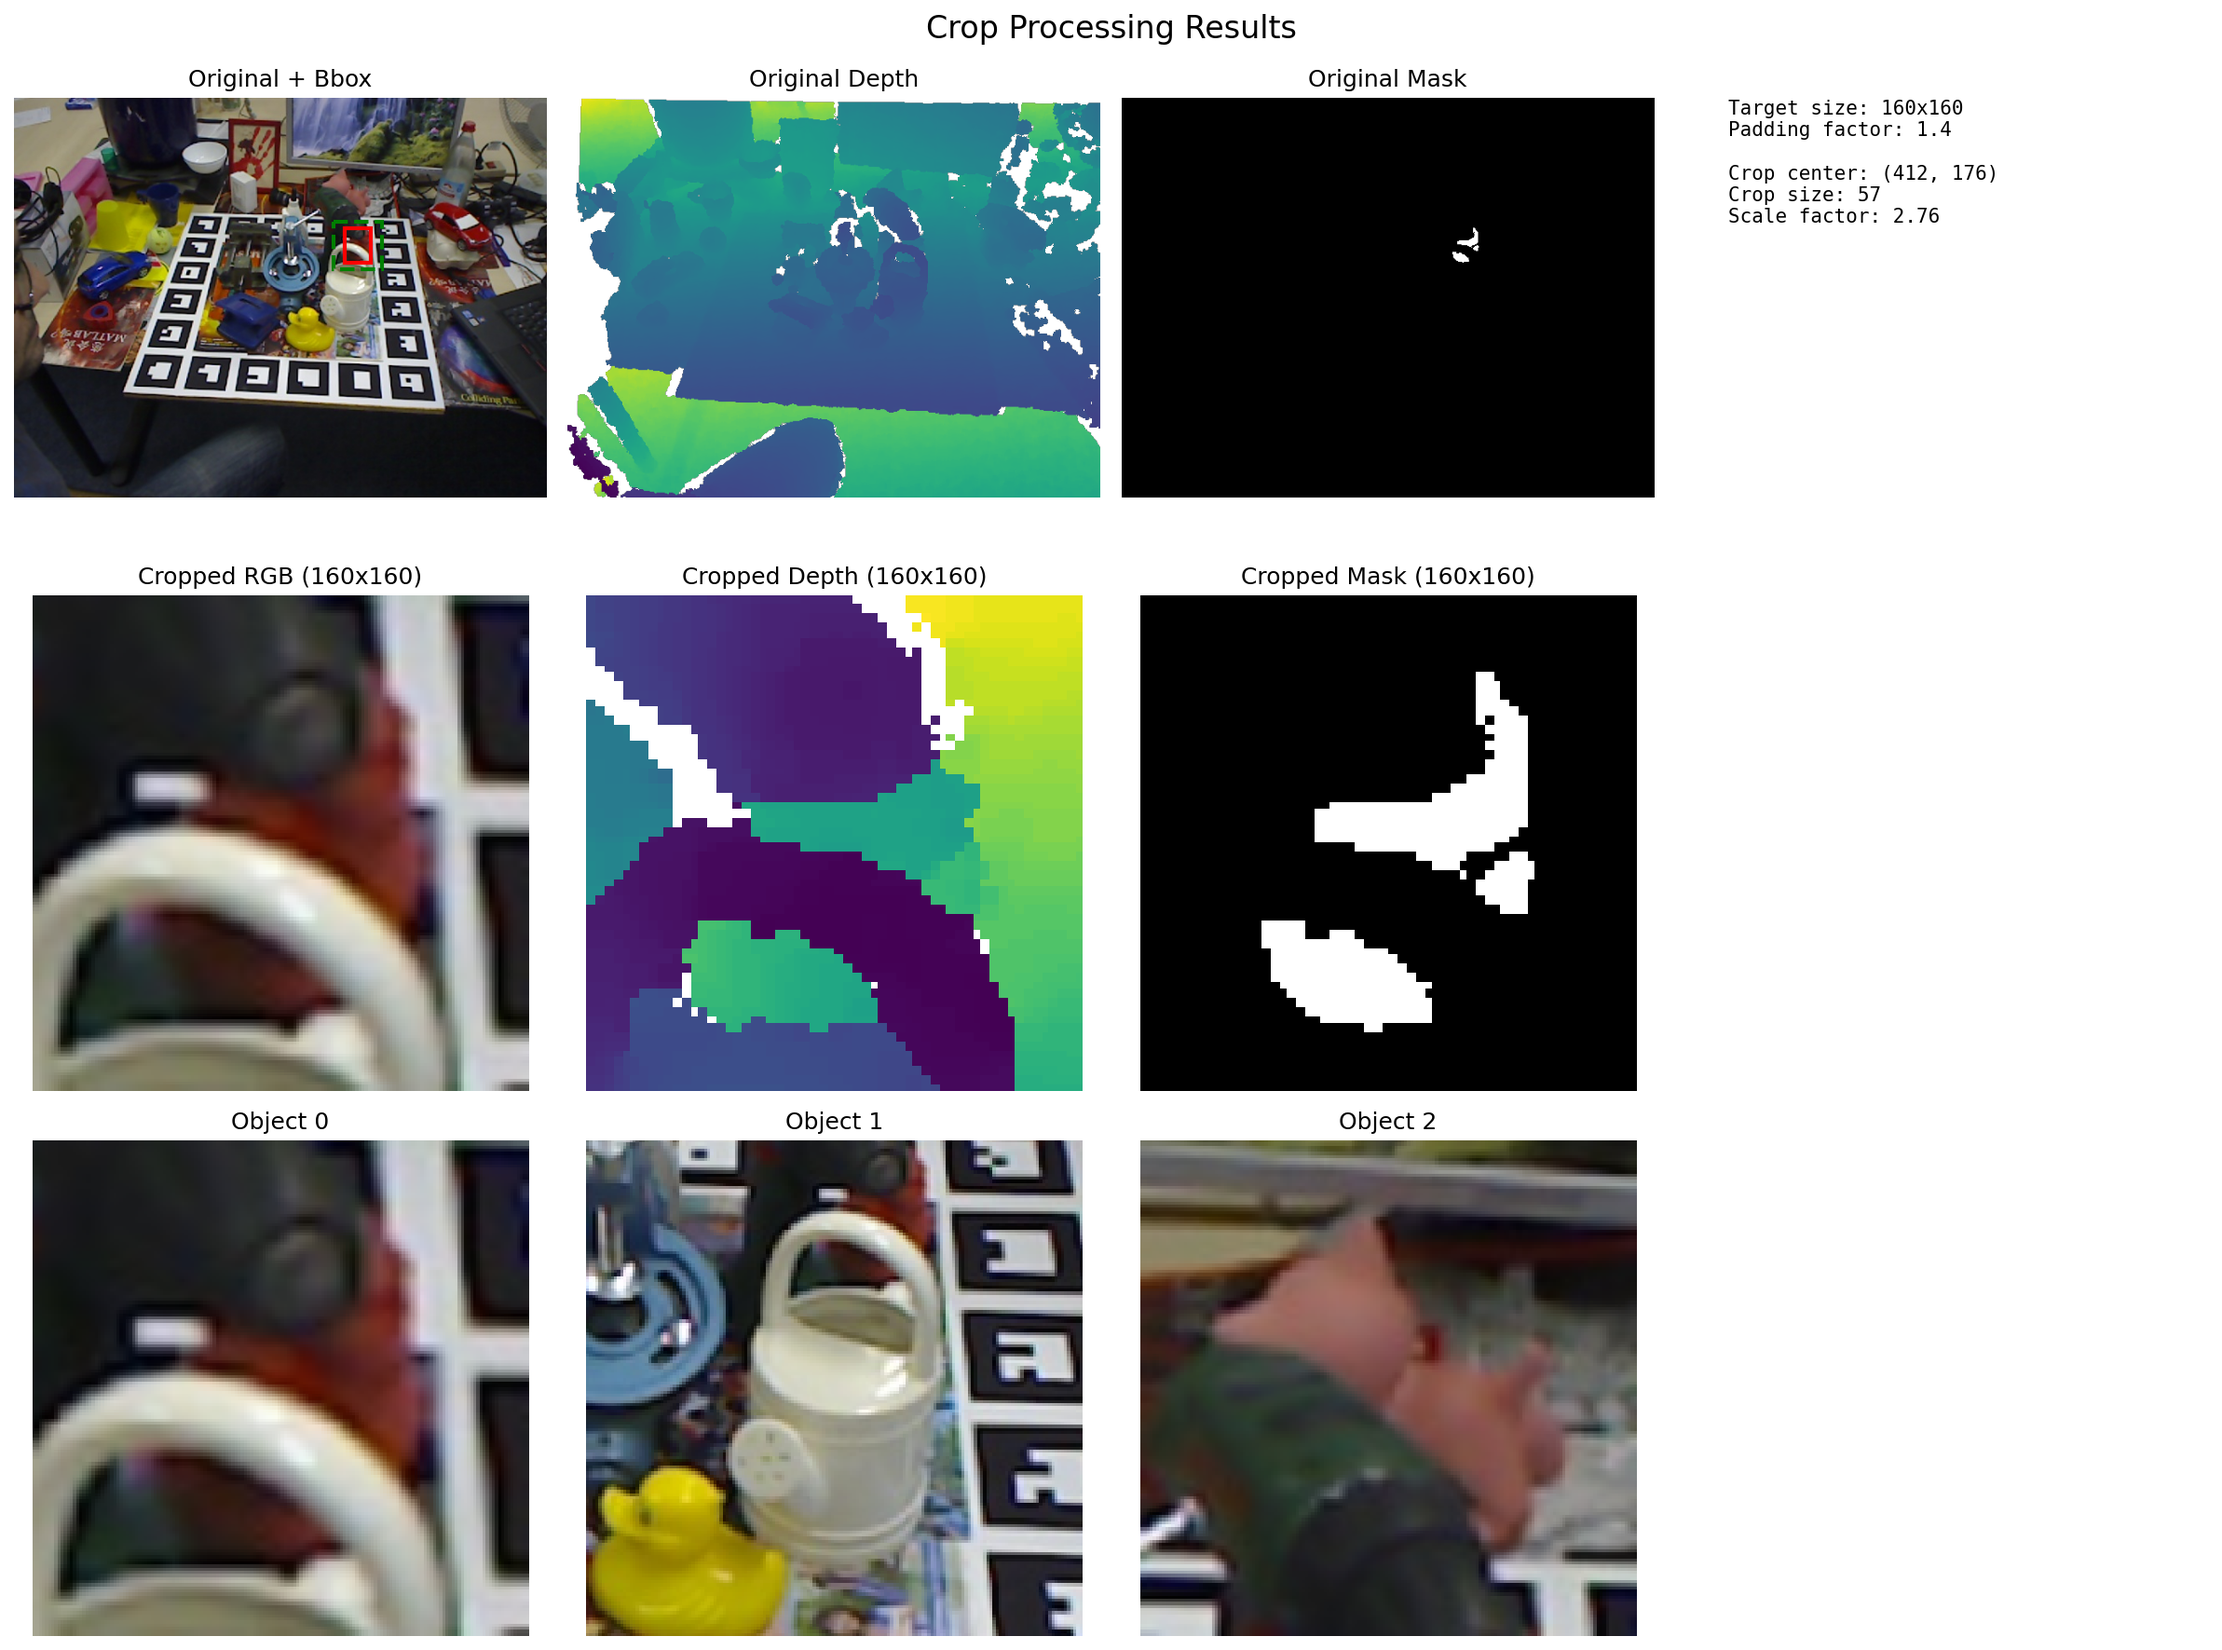
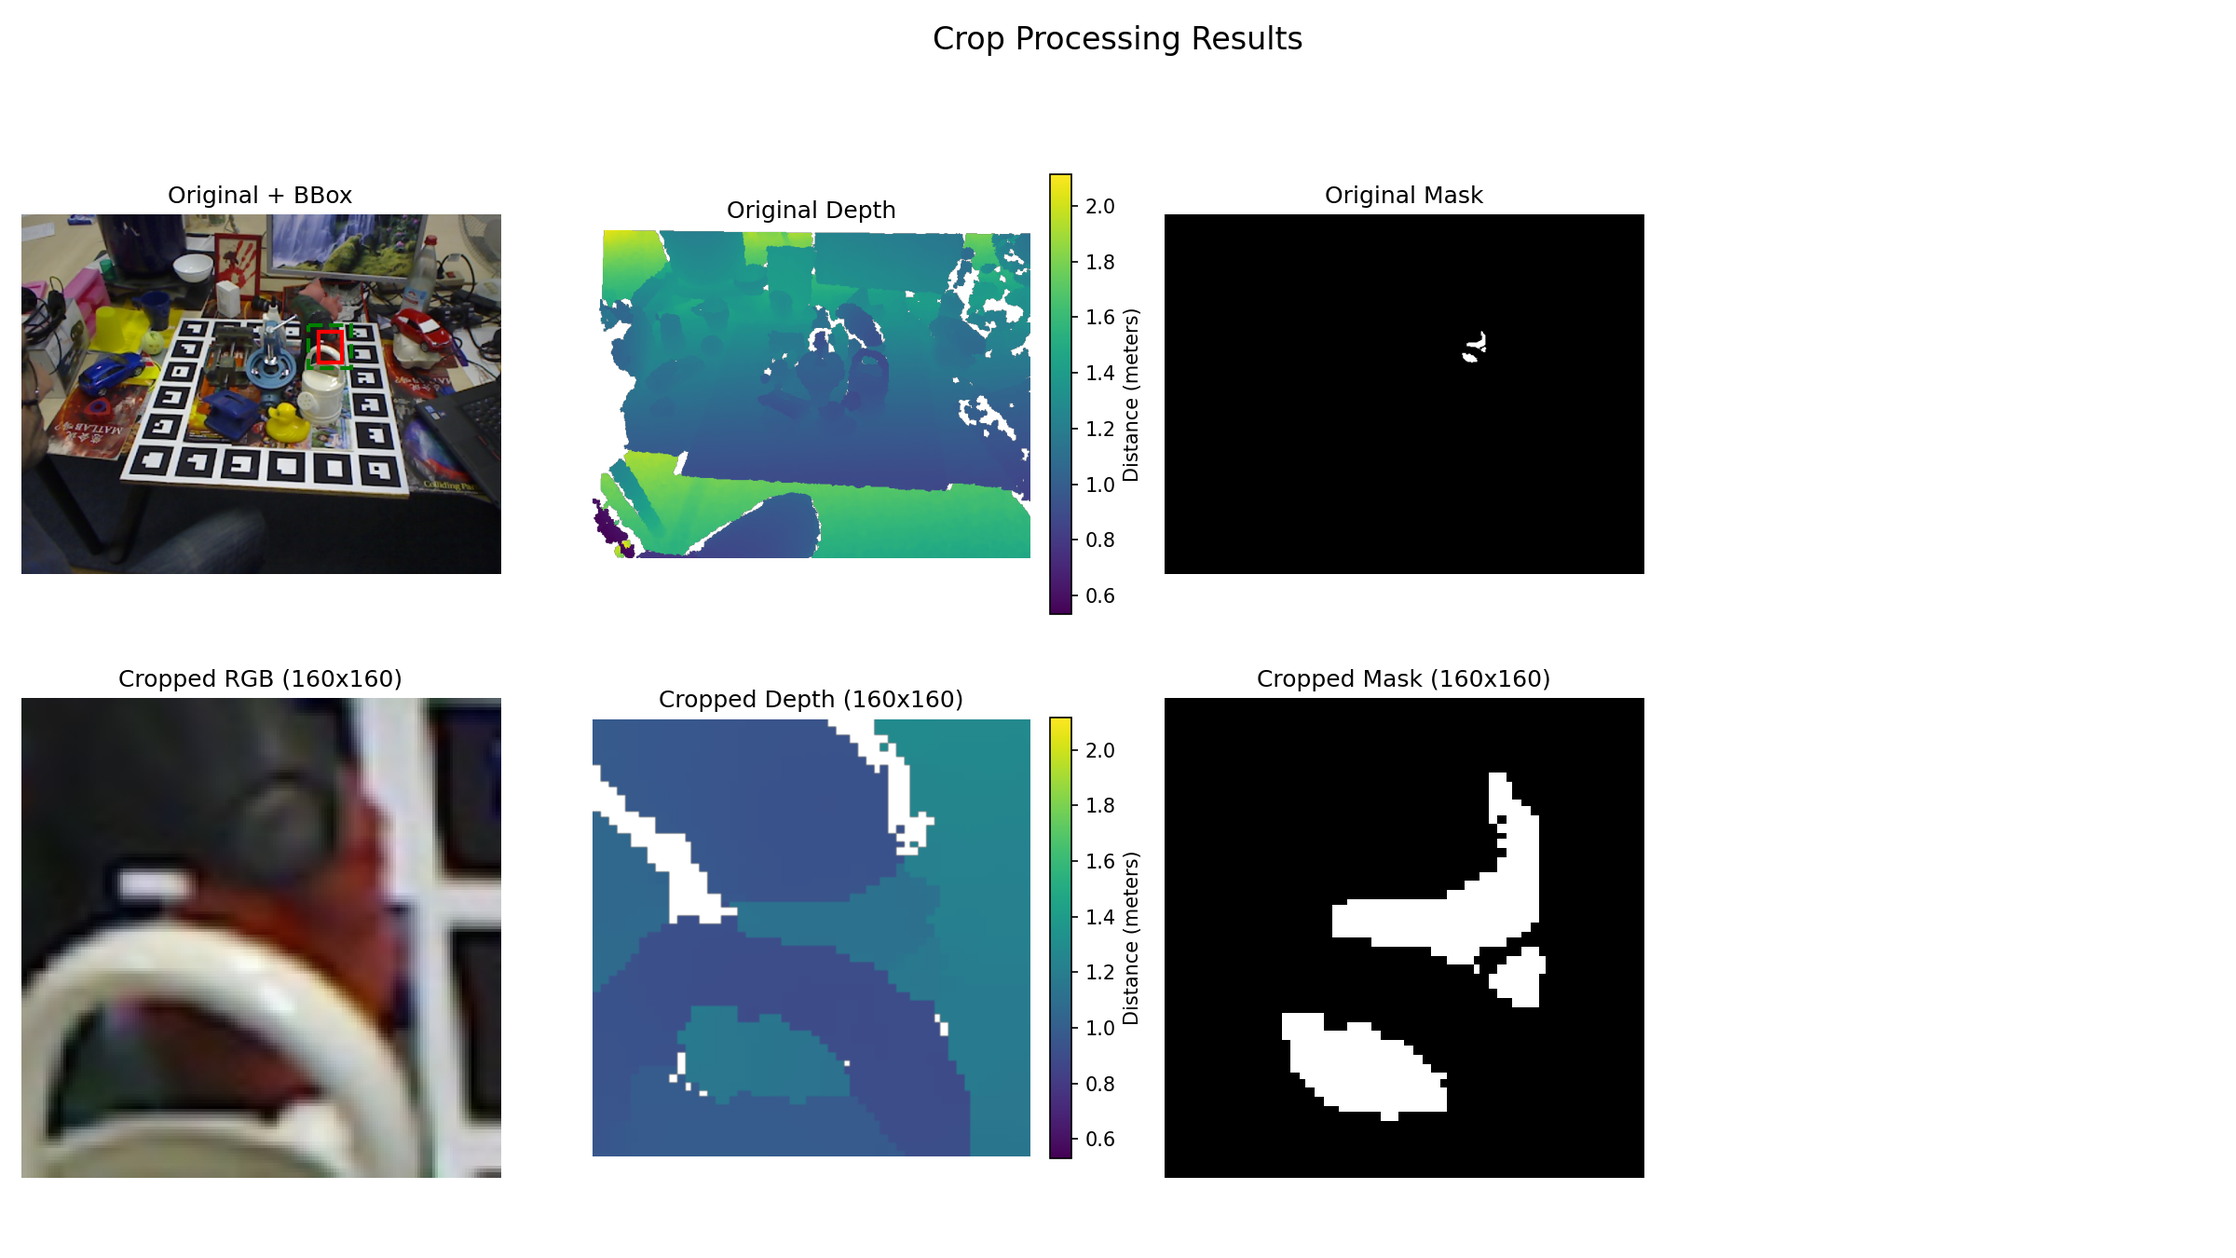
adding better output image controls to verify correctness.

diff --git a/CropProcessor.py b/CropProcessor.py
@@ -231,7 +231,7 @@ if __name__ == "__main__":
     import matplotlib
     matplotlib.use('Agg')
     import matplotlib.pyplot as plt
-    from DataLoader import DataLoader
+    from DataLoader import DataLoader # Assuming DataLoader is in a separate file
 
     logging.basicConfig(level=logging.INFO)
 
@@ -249,42 +249,46 @@ if __name__ == "__main__":
         print("No scenes found")
         exit()
 
-    data = loader.load_frame_data(scenes[0], 0)
+    # Use a scene and frame that are known to exist
+    scene_id_to_test = scenes[0]
+    frames_in_scene = loader.get_scene_frames(scene_id_to_test)
+    if not frames_in_scene:
+        print(f"No frames found in scene {scene_id_to_test}")
+        exit()
+    frame_id_to_test = frames_in_scene[0]
+
+    data = loader.load_frame_data(scene_id_to_test, frame_id_to_test)
+
+    # Find the first valid mask to process
+    first_valid_mask_idx = -1
+    for i, m in enumerate(data['masks']):
+        if m is not None and np.any(m):
+            first_valid_mask_idx = i
+            break
+
+    if first_valid_mask_idx == -1:
+        print("No valid objects found in the test frame.")
+        exit()
+
+    mask_to_process = data['masks'][first_valid_mask_idx]
 
     # Test 1: Compute crop from mask
     print("\nTest 1: Compute Crop from Mask")
-    if data['masks'] and data['masks'][0] is not None:
-        mask = data['masks'][0]
-        crop_info = processor.compute_crop_from_mask(mask)
-        print(f"Crop info: {crop_info}")
-        print(f"Object bbox: {crop_info['bbox']}")
-        print(f"Crop size: {crop_info['size']:.1f} pixels")
+    crop_info = processor.compute_crop_from_mask(mask_to_process)
+    print(f"Crop info: {crop_info}")
 
     # Test 2: Apply crop
     print("\nTest 2: Apply Crop")
-    if data['masks'] and data['masks'][0] is not None:
-        result = processor.apply_crop(
-            data['rgb'], data['depth'], data['masks'][0], data['K']
-        )
+    result = processor.apply_crop(
+        data['rgb'], data['depth'], mask_to_process, data['K']
+    )
+    print(f"Adjusted K:\n{result['K']}")
 
-        print(f"Original RGB shape: {data['rgb'].shape}")
-        print(f"Cropped RGB shape: {result['rgb'].shape}")
-        print(f"Original K:\n{data['K']}")
-        print(f"Adjusted K:\n{result['K']}")
-
-    # Test 3: Batch processing
-    print("\nTest 3: Batch Processing")
-    if len(data['masks']) > 1:
-        batch_results = processor.batch_apply_crops(
-            data['rgb'], data['depth'], data['masks'][:3], data['K']
-        )
-        print(f"Processed {len(batch_results['rgbs'])} objects")
-
-    # Visualize
-    fig, axes = plt.subplots(3, 4, figsize=(16, 12))
+    # --- Visualization ---
+    fig, axes = plt.subplots(2, 4, figsize=(16, 9))
     fig.suptitle('Crop Processing Results', fontsize=16)
 
-    # Original image with bbox
+    # --- Row 1: Original Data ---
     ax = axes[0, 0]
     ax.imshow(data['rgb'])
     if crop_info['valid']:
@@ -293,81 +297,67 @@ if __name__ == "__main__":
         ax.add_patch(rect)
         cx, cy = crop_info['center']
         size = crop_info['size']
-        square = plt.Rectangle((cx-size/2, cy-size/2), size, size,
-                             fill=False, color='g', linewidth=2, linestyle='--')
+        square = plt.Rectangle((cx - size / 2, cy - size / 2), size, size,
+                               fill=False, color='g', linewidth=2, linestyle='--')
         ax.add_patch(square)
-    ax.set_title('Original + Bbox')
+    ax.set_title('Original + BBox')
     ax.axis('off')
 
-    # Original depth
+    # Prepare original depth for visualization
     ax = axes[0, 1]
     depth_vis = data['depth'].copy()
-    depth_vis[depth_vis == 0] = np.nan
-    ax.imshow(depth_vis, cmap='viridis')
+    valid_depth = depth_vis[depth_vis > 0]
+    vmin, vmax = (valid_depth.min(), valid_depth.max()) if valid_depth.size > 0 else (0,1)
+    depth_vis[depth_vis == 0] = np.nan # Set 0 to NaN for transparent plotting
+
+    im1 = ax.imshow(depth_vis, cmap='viridis', vmin=vmin, vmax=vmax)
     ax.set_title('Original Depth')
     ax.axis('off')
 
-    # Original mask
+    # *** ADDED: Colorbar for Original Depth ***
+    cbar1 = fig.colorbar(im1, ax=ax, fraction=0.046, pad=0.04)
+    cbar1.set_label('Distance (meters)')
+
     ax = axes[0, 2]
-    if data['masks'] and data['masks'][0] is not None:
-        ax.imshow(data['masks'][0], cmap='gray')
+    ax.imshow(mask_to_process, cmap='gray')
     ax.set_title('Original Mask')
     ax.axis('off')
 
-    # Info text
-    ax = axes[0, 3]
-    info_text = f"Target size: {processor.target_size}x{processor.target_size}\n"
-    info_text += f"Padding factor: 1.4\n\n"
-    if crop_info['valid']:
-        info_text += f"Crop center: ({crop_info['center'][0]:.0f}, {crop_info['center'][1]:.0f})\n"
-        info_text += f"Crop size: {crop_info['size']:.0f}\n"
-        info_text += f"Scale factor: {result['crop_info']['scale']:.2f}"
-    ax.text(0.1, 0.9, info_text, transform=ax.transAxes,
-            fontsize=10, verticalalignment='top', family='monospace')
+    # --- Row 2: Cropped Results ---
+    axes[1, 0].imshow(result['rgb'])
+    axes[1, 0].set_title('Cropped RGB (160x160)')
+    axes[1, 0].axis('off')
+
+    ax = axes[1, 1]
+    depth_crop_vis = result['depth'].copy()
+    depth_crop_vis[depth_crop_vis == 0] = np.nan
+
+    # *** MODIFIED: Use vmin/vmax from original depth for consistent colors ***
+    im2 = ax.imshow(depth_crop_vis, cmap='viridis', vmin=vmin, vmax=vmax)
+    ax.set_title('Cropped Depth (160x160)')
     ax.axis('off')
 
-    # Cropped results
-    if 'result' in locals():
-        # Cropped RGB
-        axes[1, 0].imshow(result['rgb'])
-        axes[1, 0].set_title('Cropped RGB (160x160)')
-        axes[1, 0].axis('off')
+    # *** ADDED: Colorbar for Cropped Depth ***
+    cbar2 = fig.colorbar(im2, ax=ax, fraction=0.046, pad=0.04)
+    cbar2.set_label('Distance (meters)')
 
-        # Cropped depth
-        depth_crop_vis = result['depth'].copy()
-        if depth_crop_vis[depth_crop_vis > 0].size > 0:
-            vmin = depth_crop_vis[depth_crop_vis > 0].min()
-            vmax = depth_crop_vis[depth_crop_vis > 0].max()
-            depth_crop_vis[depth_crop_vis == 0] = np.nan
-            axes[1, 1].imshow(depth_crop_vis, cmap='viridis', vmin=vmin, vmax=vmax)
-        axes[1, 1].set_title('Cropped Depth (160x160)')
-        axes[1, 1].axis('off')
-
-        # Cropped mask
-        axes[1, 2].imshow(result['mask'], cmap='gray')
-        axes[1, 2].set_title('Cropped Mask (160x160)')
-        axes[1, 2].axis('off')
-
-    # Multiple objects if available
-    if 'batch_results' in locals():
-        for i in range(min(3, len(batch_results['rgbs']))):
-            axes[2, i].imshow(batch_results['rgbs'][i])
-            axes[2, i].set_title(f'Object {i}')
-            axes[2, i].axis('off')
+    axes[1, 2].imshow(result['mask'], cmap='gray')
+    axes[1, 2].set_title('Cropped Mask (160x160)')
+    axes[1, 2].axis('off')
 
     # Hide unused axes
-    for ax in axes.flat:
-        if not ax.has_data():
-            ax.axis('off')
+    axes[0, 3].axis('off')
+    axes[1, 3].axis('off')
 
-    plt.tight_layout()
+    plt.tight_layout(rect=[0, 0.03, 1, 0.95])
 
     # Save
     from pathlib import Path
     viz_dir = Path("viz")
     viz_dir.mkdir(exist_ok=True)
-    plt.savefig(viz_dir / 'cropprocessor_test.png', dpi=150, bbox_inches='tight')
-    print(f"\nVisualization saved to: {viz_dir / 'cropprocessor_test.png'}")
+    save_path = viz_dir / 'cropprocessor_test.png'
+    plt.savefig(save_path, dpi=150)
+    print(f"\nVisualization saved to: {save_path}")
 
     print("\n" + "="*80)
     print("All tests passed!")

diff --git a/DataLoader.py b/DataLoader.py
@@ -242,14 +242,54 @@ class DataLoader:
 # Unit tests
 if __name__ == "__main__":
     import matplotlib
-    matplotlib.use('Agg')  # Non-interactive backend
     import matplotlib.pyplot as plt
+    matplotlib.use('Agg')  # Non-interactive backend
 
     # Set up logging
     logging.basicConfig(level=logging.INFO)
 
     # Initialize loader
+    # Create dummy data directory for demonstration if it doesn't exist
+    data_path = Path("data")
+    if not data_path.exists():
+        print("Creating dummy data structure for demonstration.")
+        # Create all necessary dummy files and directories
+        (data_path / "lmo").mkdir(parents=True, exist_ok=True)
+        with open(data_path / "lmo" / "camera.json", "w") as f:
+            json.dump({
+                "fx": 572.4114, "fy": 573.57043, "cx": 325.2611, "cy": 242.04899,
+                "width": 640, "height": 480, "depth_scale": 1.0
+            }, f)
+
+        (data_path / "lmo_models" / "models").mkdir(parents=True, exist_ok=True)
+        # Create a dummy cube PLY file for object 1
+        dummy_mesh = trimesh.creation.box(bounds=[[-50,-50,-50],[50,50,50]])
+        dummy_mesh.export(data_path / "lmo_models" / "models" / "obj_000001.ply")
+
+
+        (data_path / "test" / "000002" / "rgb").mkdir(parents=True, exist_ok=True)
+        (data_path / "test" / "000002" / "depth").mkdir(exist_ok=True)
+        (data_path / "test" / "000002" / "mask_visib").mkdir(exist_ok=True)
+        # Create dummy images and gt files
+        dummy_rgb = np.random.randint(0, 256, (480, 640, 3), dtype=np.uint8)
+        dummy_depth = np.random.randint(400, 1500, (480, 640), dtype=np.uint16)
+        dummy_mask = np.zeros((480, 640), dtype=np.uint8)
+        dummy_mask[200:300, 300:400] = 255
+        cv2.imwrite(str(data_path / "test" / "000002" / "rgb" / "000000.png"), dummy_rgb)
+        cv2.imwrite(str(data_path / "test" / "000002" / "depth" / "000000.png"), dummy_depth)
+        cv2.imwrite(str(data_path / "test" / "000002" / "mask_visib" / "000000_000000.png"), dummy_mask)
+        with open(data_path / "test" / "000002" / "scene_gt.json", "w") as f:
+            json.dump({
+                "0": [{
+                    "cam_R_m2c": np.eye(3).flatten().tolist(),
+                    "cam_t_m2c": [0, 0, 1000], # 1m away
+                    "obj_id": 1
+                }]
+            }, f)
+
+
     loader = DataLoader("./data")
+
 
     print("="*80)
     print("LM-O Dataset Loader Unit Tests")
@@ -271,12 +311,12 @@ if __name__ == "__main__":
 
     # Test 3: Load object model
     print("\nTest 3: Load Object Models")
-    for obj_id in loader.object_ids[:3]:
-        try:
-            mesh = loader.load_object_model(obj_id)
-            print(f"Object {obj_id}: {len(mesh.vertices)} vertices")
-        except FileNotFoundError:
-            print(f"Object {obj_id}: Not found")
+    try:
+        mesh = loader.load_object_model(1)
+        print(f"Object 1: {len(mesh.vertices)} vertices")
+    except FileNotFoundError as e:
+        print(f"Object 1: Not found. {e}")
+
 
     # Test 4: Load frame data
     print("\nTest 4: Load Frame Data")
@@ -309,7 +349,9 @@ if __name__ == "__main__":
         n_objects = len(data['masks'])
         fig, axes = plt.subplots(2, max(3, n_objects), figsize=(5*max(3, n_objects), 10))
         if n_objects < 3:
-            axes = np.pad(axes, ((0, 0), (0, 3-n_objects)), mode='constant')
+            # This ensures axes is always a 2D array for consistent indexing
+            fig.set_size_inches(15, 10)
+            axes = np.reshape(axes, (2, -1)) # Reshape to 2D if it's 1D
 
         # RGB
         axes[0, 0].imshow(data['rgb'])
@@ -320,28 +362,38 @@ if __name__ == "__main__":
         depth_vis = data['depth'].copy()
         depth_vis[depth_vis == 0] = np.nan
         im = axes[0, 1].imshow(depth_vis, cmap='viridis')
-        axes[0, 1].set_title('Depth (meters)')
+        axes[0, 1].set_title('Depth')
         axes[0, 1].axis('off')
+
+        # *** NEW: Add a colorbar for the depth image ***
+        cbar = fig.colorbar(im, ax=axes[0, 1], shrink=0.8)
+        cbar.set_label('Distance (meters)')
+
 
         # Object masks
         for i, (mask, obj_id) in enumerate(zip(data['masks'], data['object_ids'])):
-            if i < axes.shape[1] - 2 and mask is not None:
+            if i + 2 < axes.shape[1] and mask is not None:
                 axes[0, i+2].imshow(mask, cmap='gray')
                 axes[0, i+2].set_title(f'Object {obj_id}')
                 axes[0, i+2].axis('off')
+
+        # Hide unused mask axes
+        for i in range(len(data['masks']) + 2, axes.shape[1]):
+            axes[0, i].axis('off')
+
 
         # Pose info
         info_text = "Ground Truth Poses:\n\n"
         for obj_id, pose in zip(data['object_ids'], data['poses']):
             t = pose[:3, 3]
             info_text += f"Object {obj_id}:\n"
-            info_text += f"  T: [{t[0]:.1f}, {t[1]:.1f}, {t[2]:.1f}] m\n\n"
+            info_text += f"  T: [{t[0]:.2f}, {t[1]:.2f}, {t[2]:.2f}] m\n\n"
 
         axes[1, 0].text(0.1, 0.9, info_text, transform=axes[1, 0].transAxes,
-                       fontsize=10, verticalalignment='top', family='monospace')
+                        fontsize=10, verticalalignment='top', family='monospace')
         axes[1, 0].axis('off')
 
-        # Hide unused axes
+        # Hide unused axes in the second row
         for i in range(1, axes.shape[1]):
             axes[1, i].axis('off')
 
@@ -353,6 +405,7 @@ if __name__ == "__main__":
 
         plt.savefig(viz_dir / 'dataloader_test.png', dpi=150, bbox_inches='tight')
         print(f"\nVisualization saved to: {viz_dir / 'dataloader_test.png'}")
+
 
     print("\n" + "="*80)
     print("All tests passed!")
